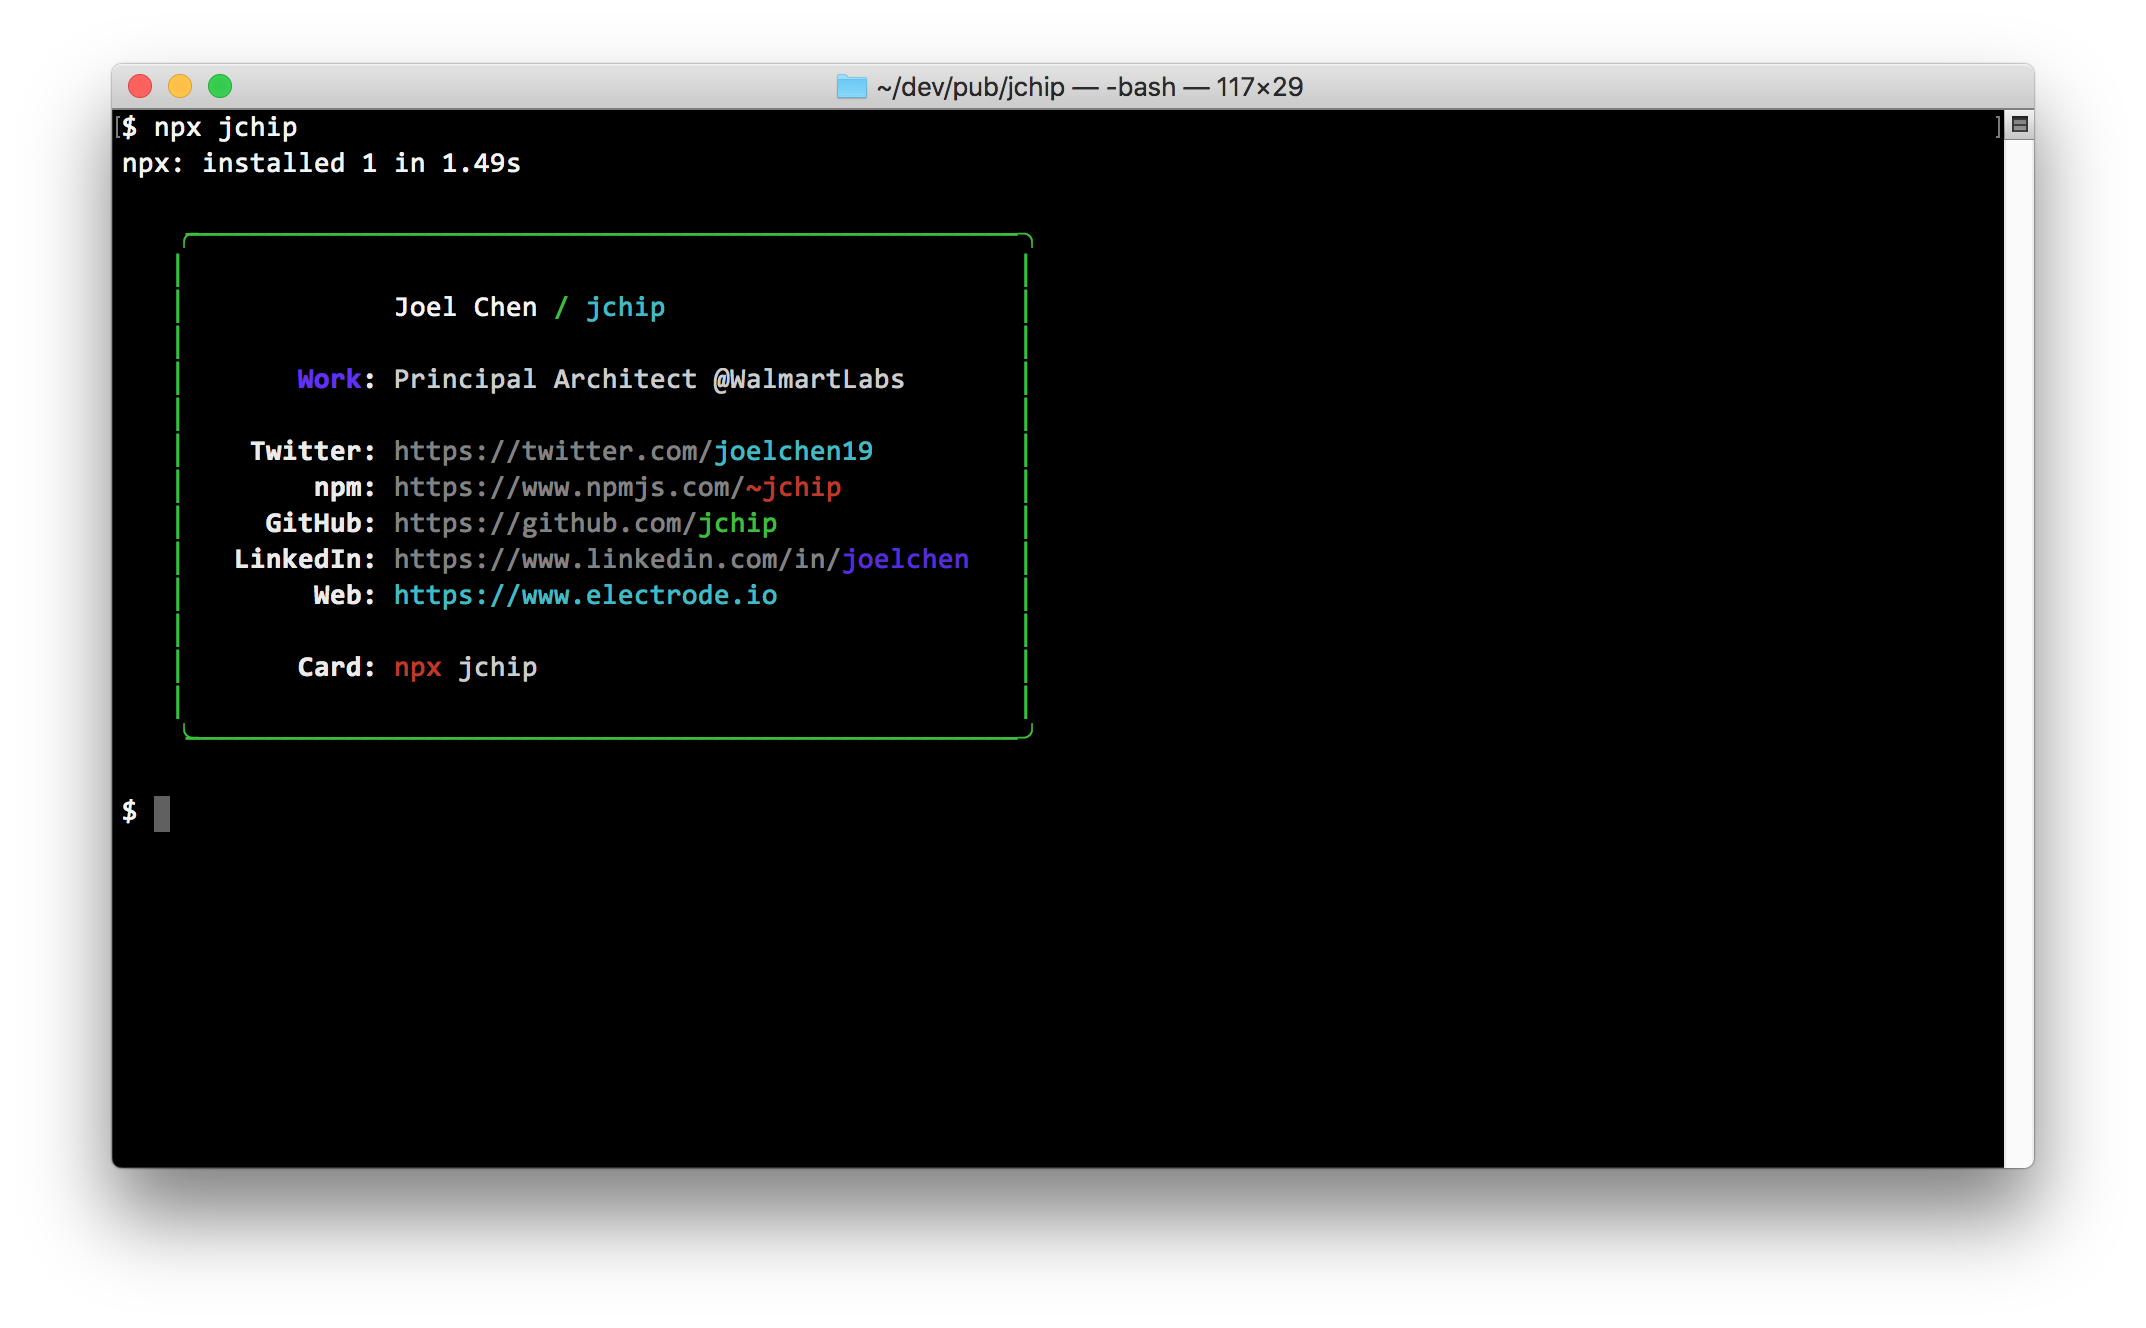
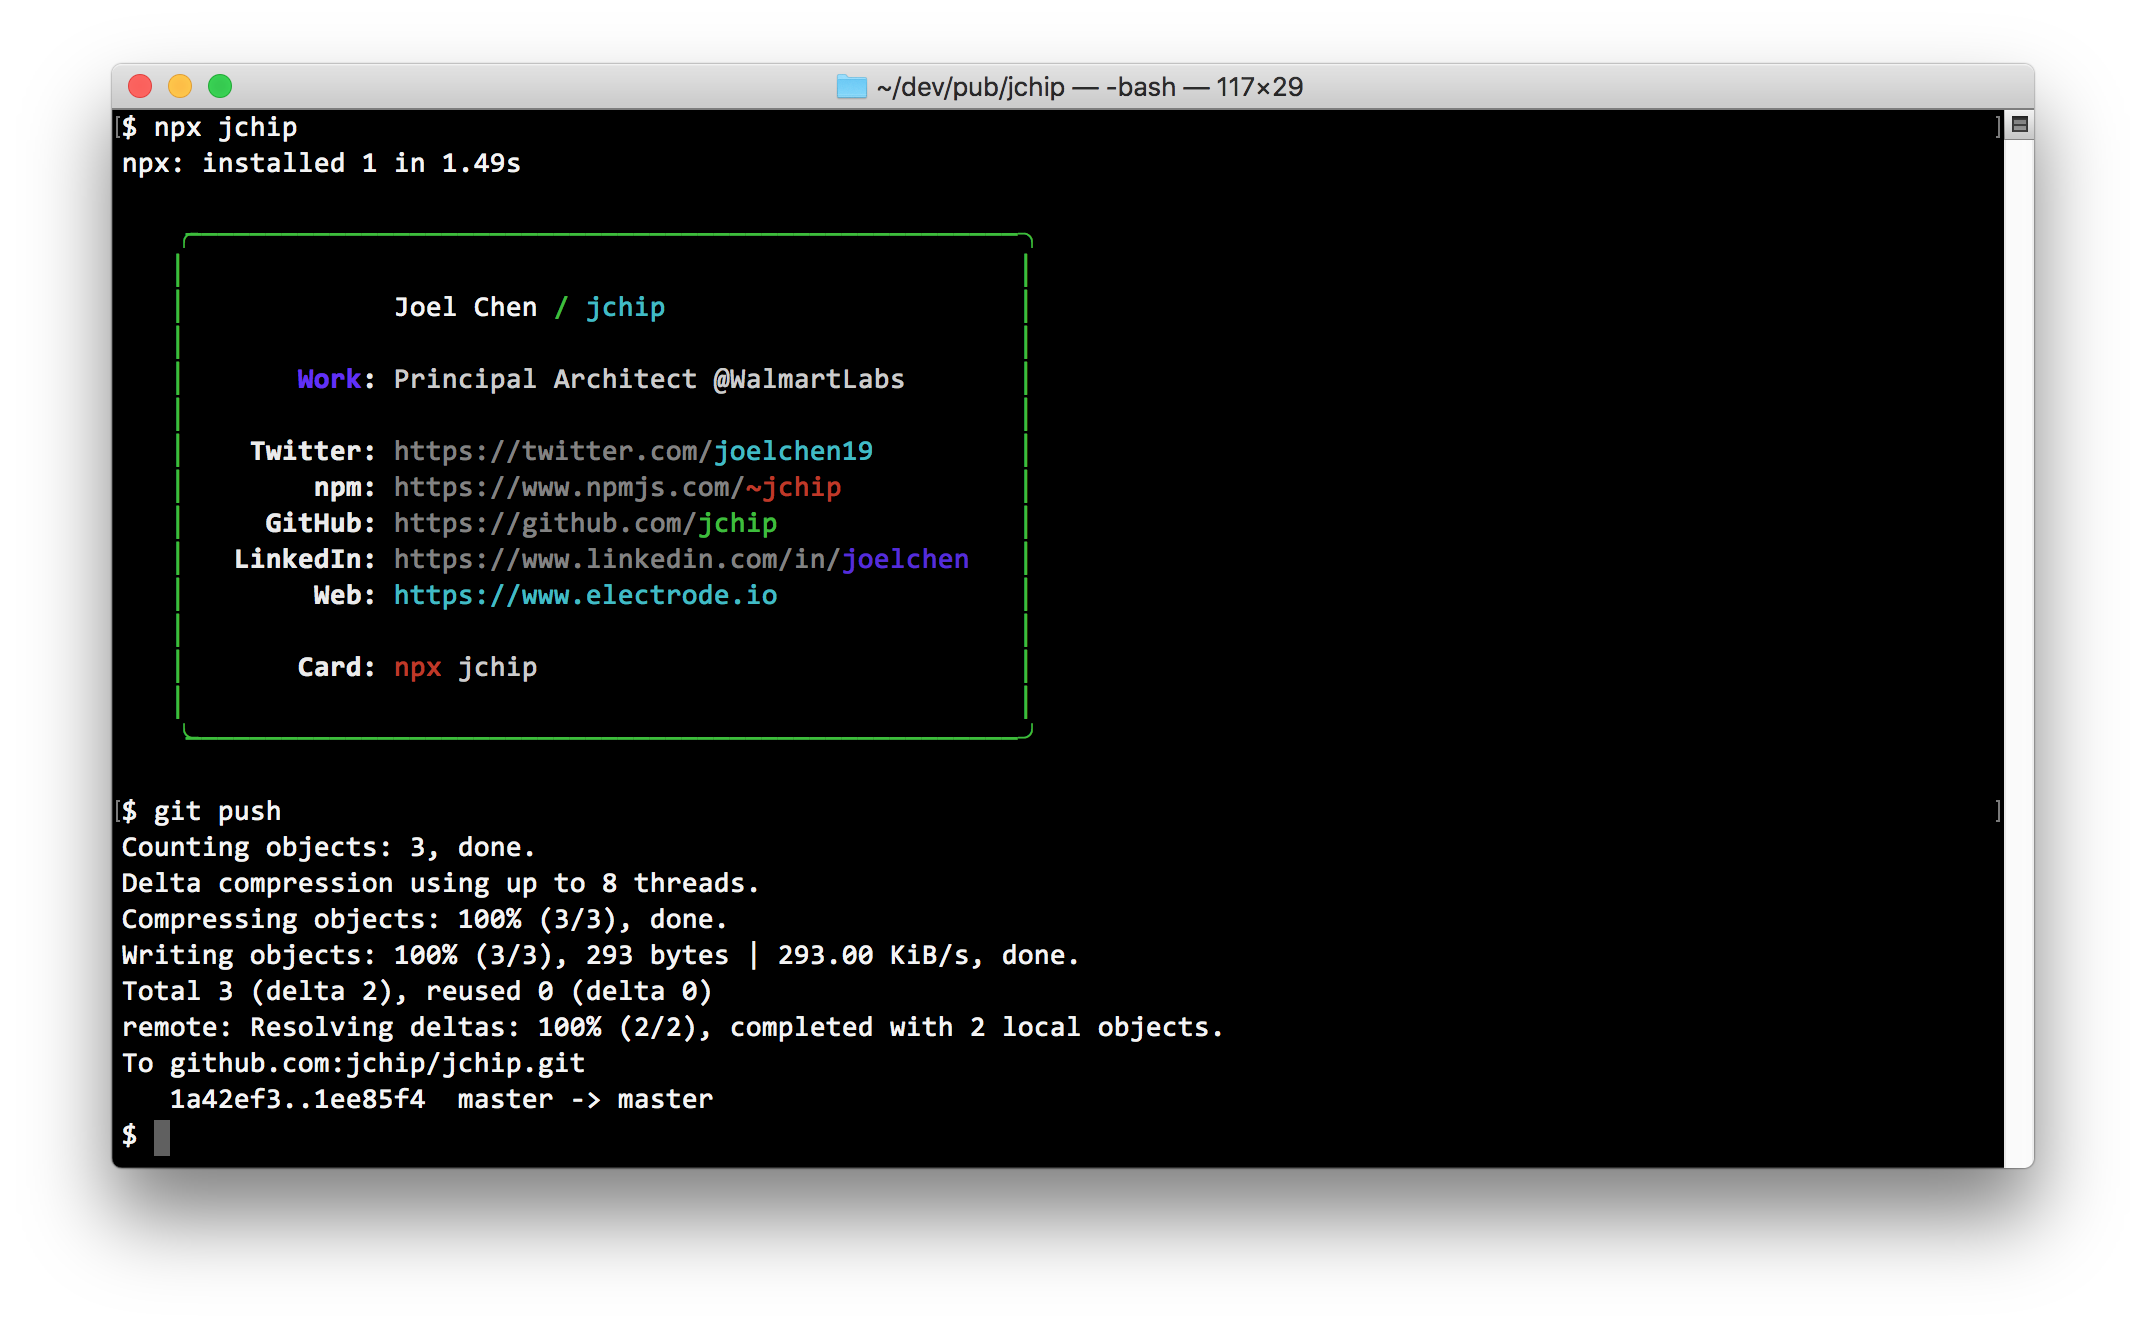
add push version tag

Changed region(s): [[0.0624, 0.5866, 0.4995, 0.8645], [0.4683, 0.7718, 0.562, 0.8027], [0.3434, 0.7718, 0.4371, 0.8027]]

diff --git a/README.md b/README.md
@@ -87,7 +87,7 @@ Scrolling down:
 
 ![Publish scroll down][publish-2]
 
-And profit:
+And profit, also remember to push version tag to github.
 
 ![npx][npx]
 
